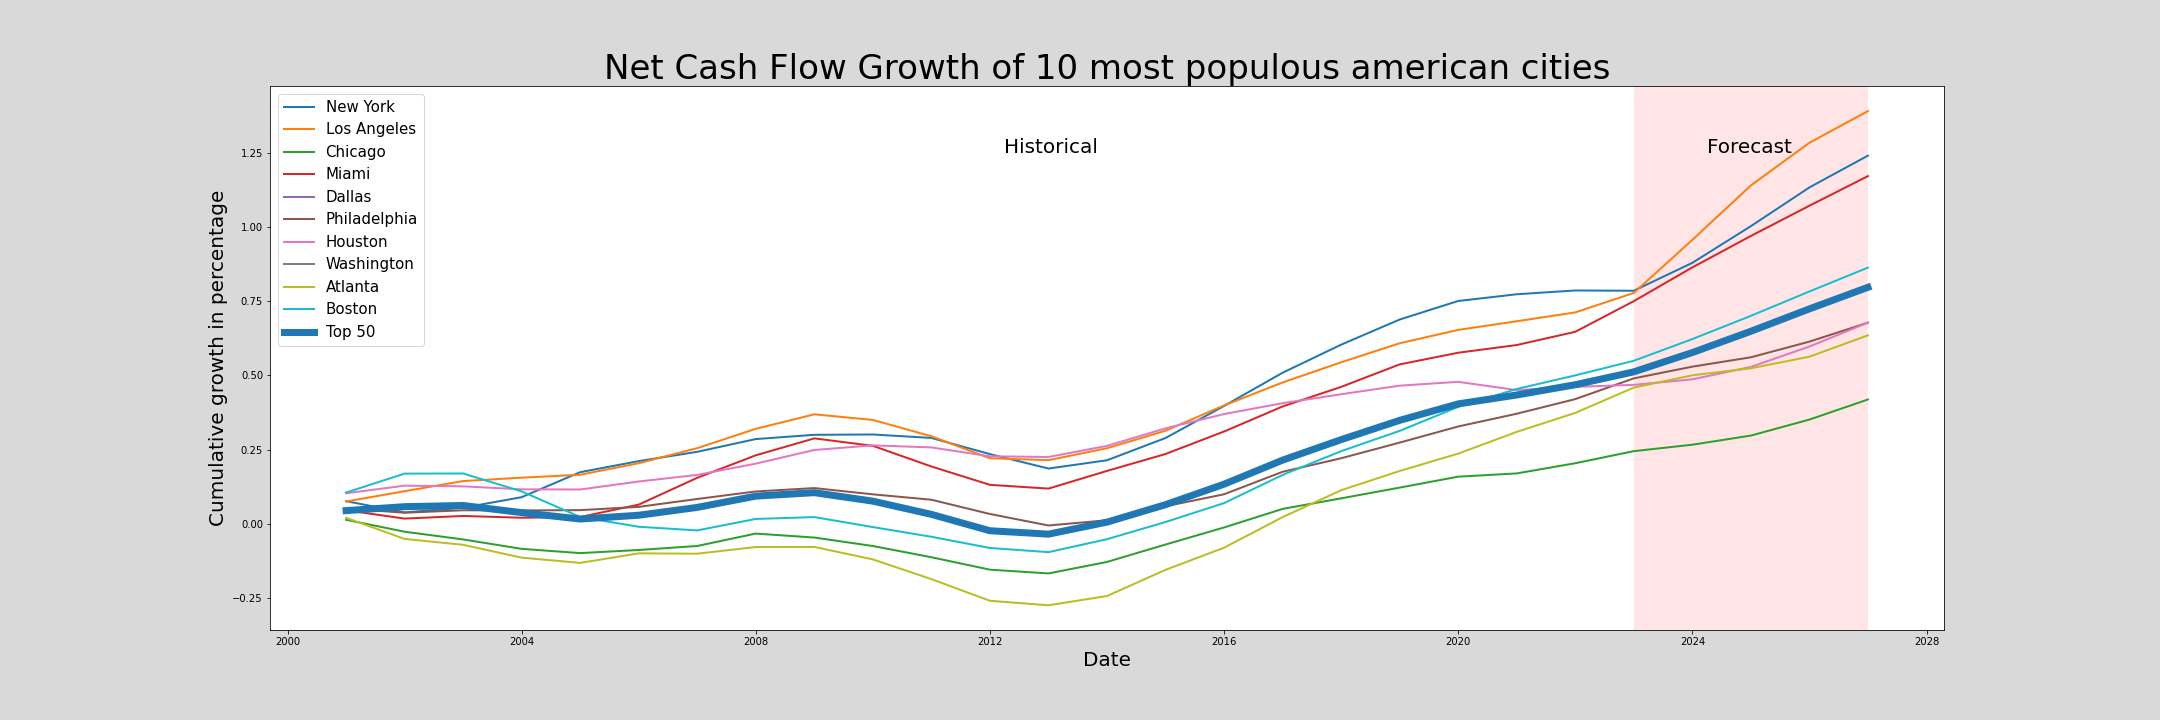
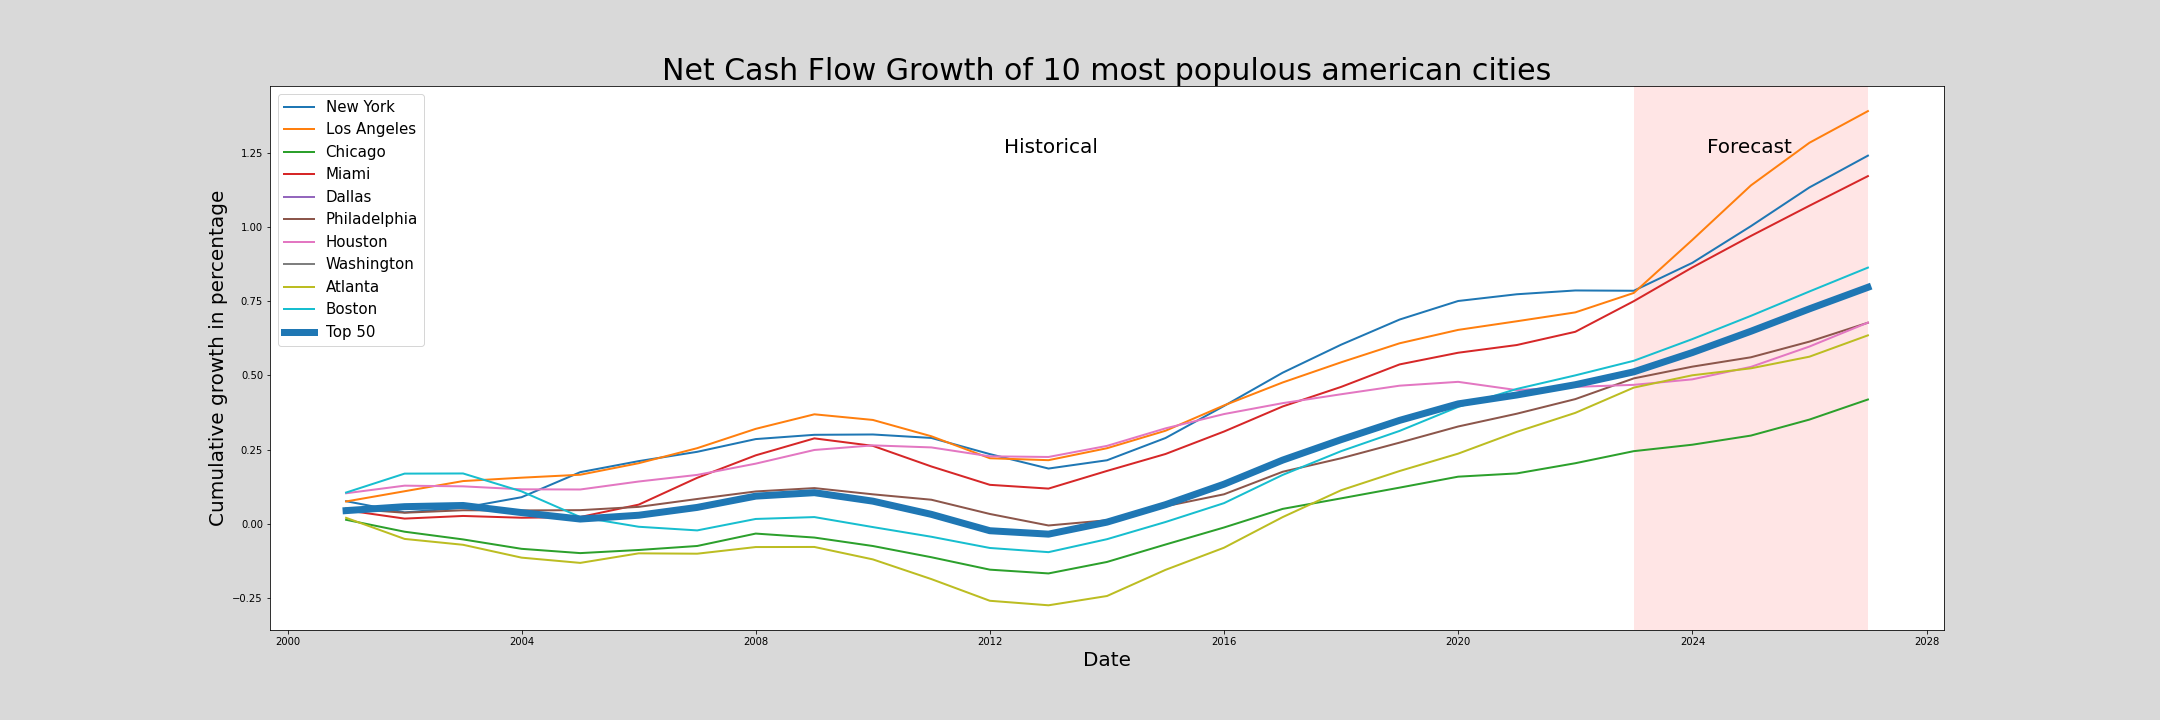
commit

Changed region(s): [[0.2792, 0.0611, 0.7444, 0.1222]]

diff --git a/classification_site.py b/classification_site.py
@@ -18,9 +18,9 @@ miami.head()
 plt.figure(figsize=(50, 20))
 plt.title("mrevpaf_growth")
 miami = forecasts[(forecasts.fc_publish == "2021 Q1") & (forecasts.sector_publish == "Industrial") & (forecasts.market_publish == "Miami")]
-plt.plot(miami.date, miami.supply_growth, label = f"{miami.fc_publish.to_list()[0]}")
+plt.plot(miami.date, miami.mrevpaf_growth, label = f"{miami.fc_publish.to_list()[0]}")
 miami = forecasts[(forecasts.date_fc_release == "2022-03-31") & (forecasts.sector_publish == "Industrial") & (forecasts.market_publish == "Miami")]
-plt.plot(miami.date, miami.supply_growth, label = f"{miami.fc_publish.to_list()[0]}");
+plt.plot(miami.date, miami.mrevpaf_growth, label = f"{miami.fc_publish.to_list()[0]}");
 plt.legend()
 plt.grid(True)
 
@@ -48,7 +48,7 @@ past_data.date = pd.to_datetime(past_data.date)
 past_data = past_data[past_data.date.dt.month == 12]
 
 plt.figure(figsize=(30, 10), facecolor="#d9d9d9")
-plt.title("Net Cash Flow Growth of 10 most populous american cities", **{"size": 34})
+plt.title("Net Cash Flow Growth of 10 most populous american cities", **{"size": 30})
 
 for city in cities:
     data = past_data[(forecasts.market_publish == city)]
